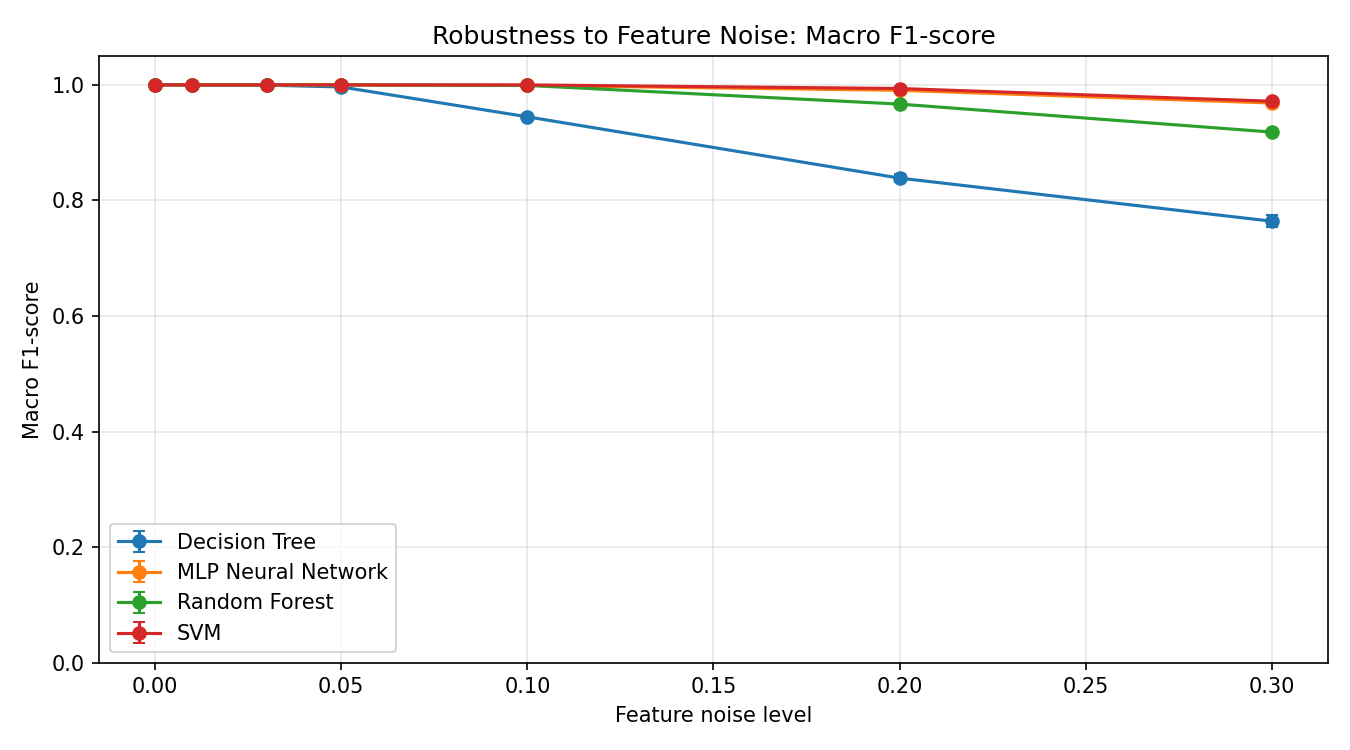
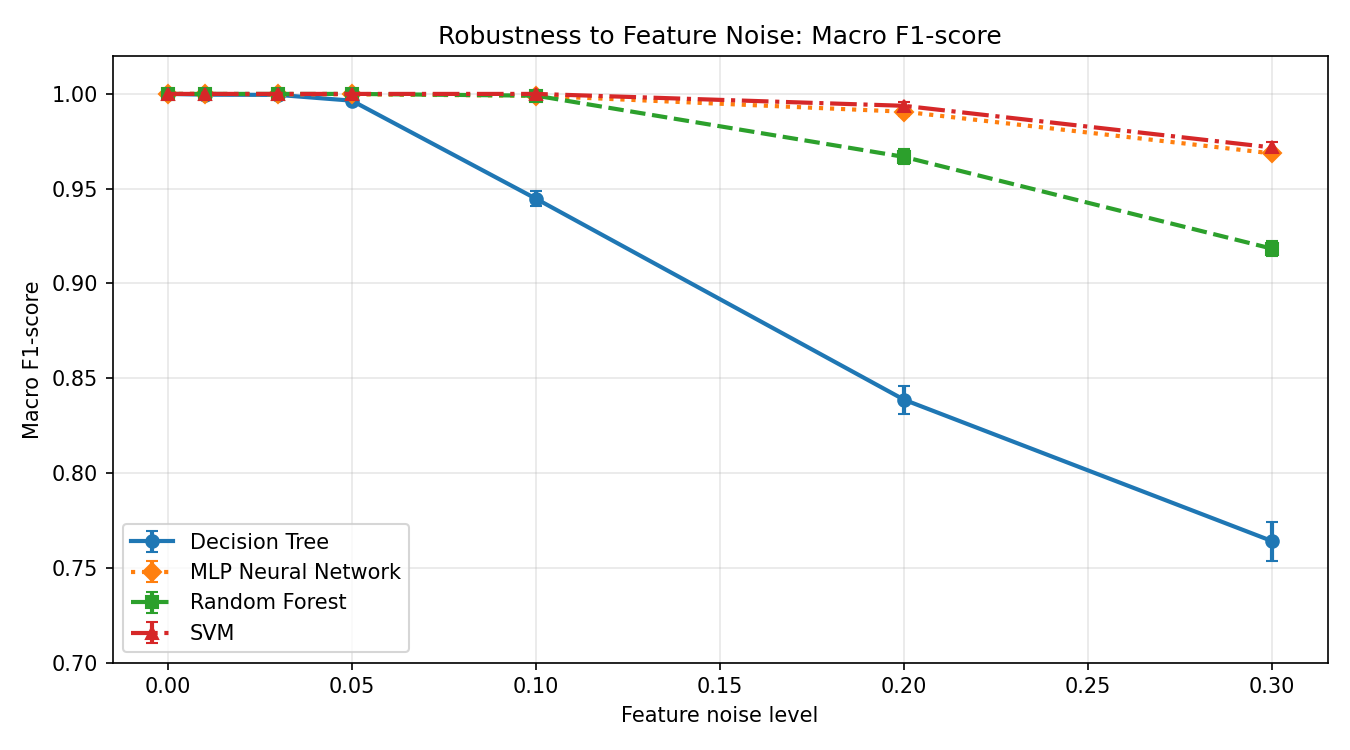
Improve robustness plot readability

diff --git a/src/evaluate_robustness.py b/src/evaluate_robustness.py
@@ -168,18 +168,28 @@ def run_robustness_experiment():
 
     return results_df
 
-
 def plot_metric(results_df, metric_mean, metric_std, ylabel, title, output_path):
     fig, ax = plt.subplots(figsize=(9, 5))
 
+    style_map = {
+        "Decision Tree": {"marker": "o", "linestyle": "-"},
+        "Random Forest": {"marker": "s", "linestyle": "--"},
+        "SVM": {"marker": "^", "linestyle": "-."},
+        "MLP Neural Network": {"marker": "D", "linestyle": ":"},
+    }
+
     for model_name, model_df in results_df.groupby("model"):
         model_df = model_df.sort_values("noise_level")
+        style = style_map.get(model_name, {"marker": "o", "linestyle": "-"})
 
         ax.errorbar(
             model_df["noise_level"],
             model_df[metric_mean],
             yerr=model_df[metric_std],
-            marker="o",
+            marker=style["marker"],
+            linestyle=style["linestyle"],
+            linewidth=2,
+            markersize=6,
             capsize=3,
             label=model_name,
         )
@@ -187,9 +197,9 @@ def plot_metric(results_df, metric_mean, metric_std, ylabel, title, output_path)
     ax.set_xlabel("Feature noise level")
     ax.set_ylabel(ylabel)
     ax.set_title(title)
-    ax.set_ylim(0, 1.05)
+    ax.set_ylim(0.70, 1.02)
     ax.grid(True, alpha=0.3)
-    ax.legend()
+    ax.legend(loc="lower left")
 
     plt.tight_layout()
     plt.savefig(output_path, dpi=150)